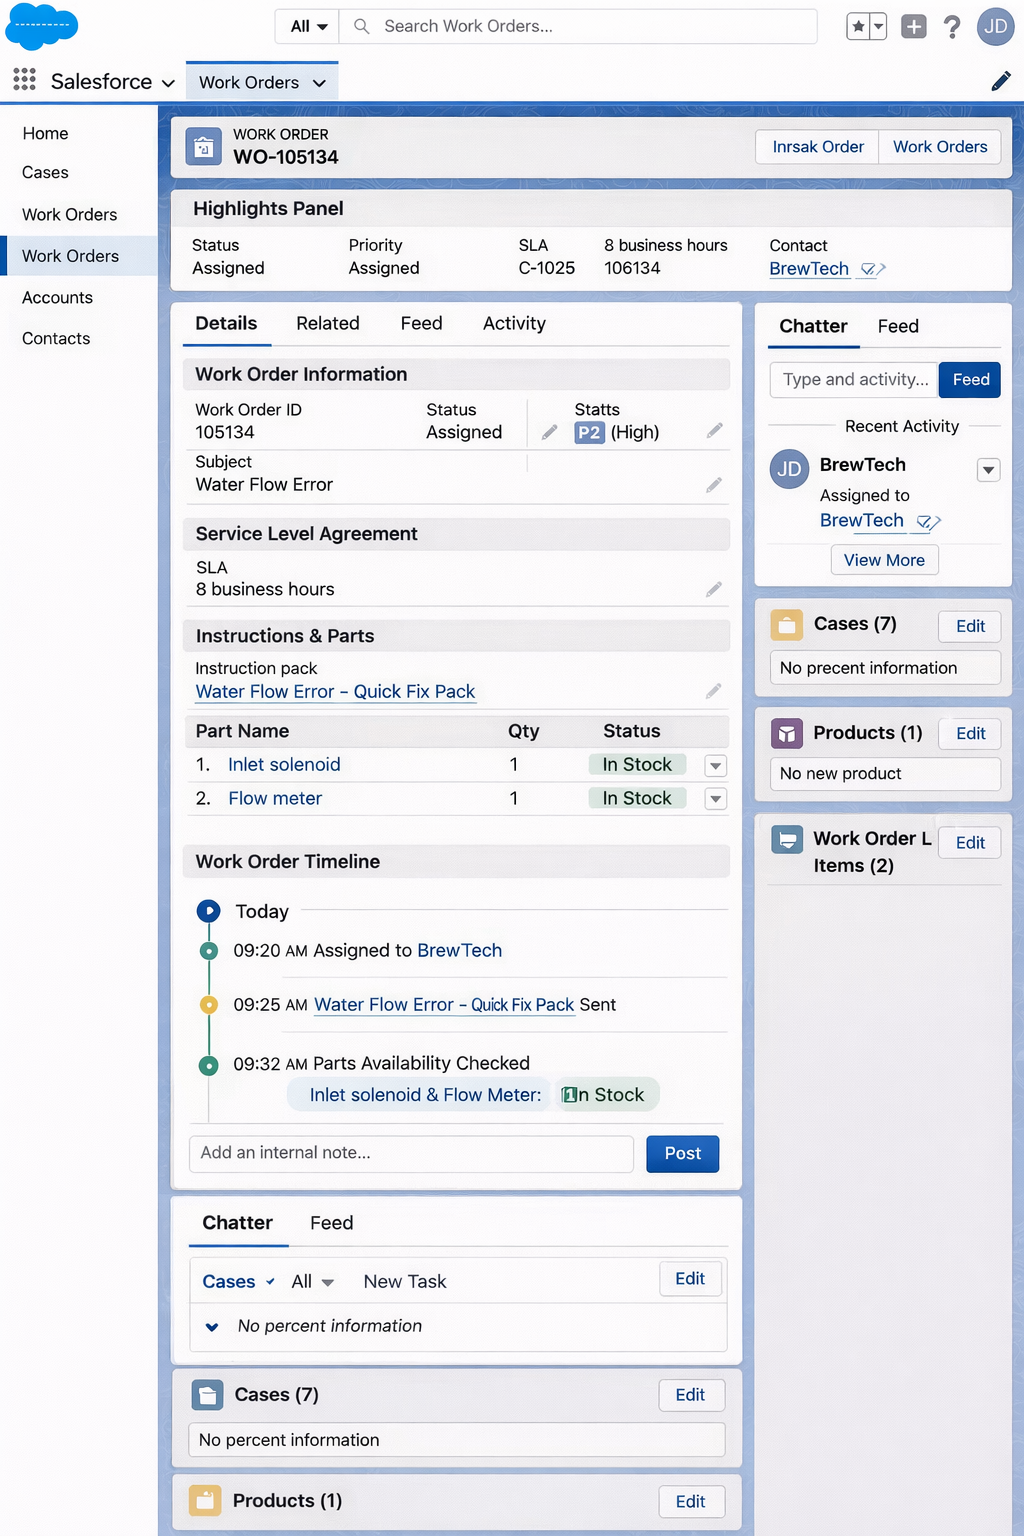
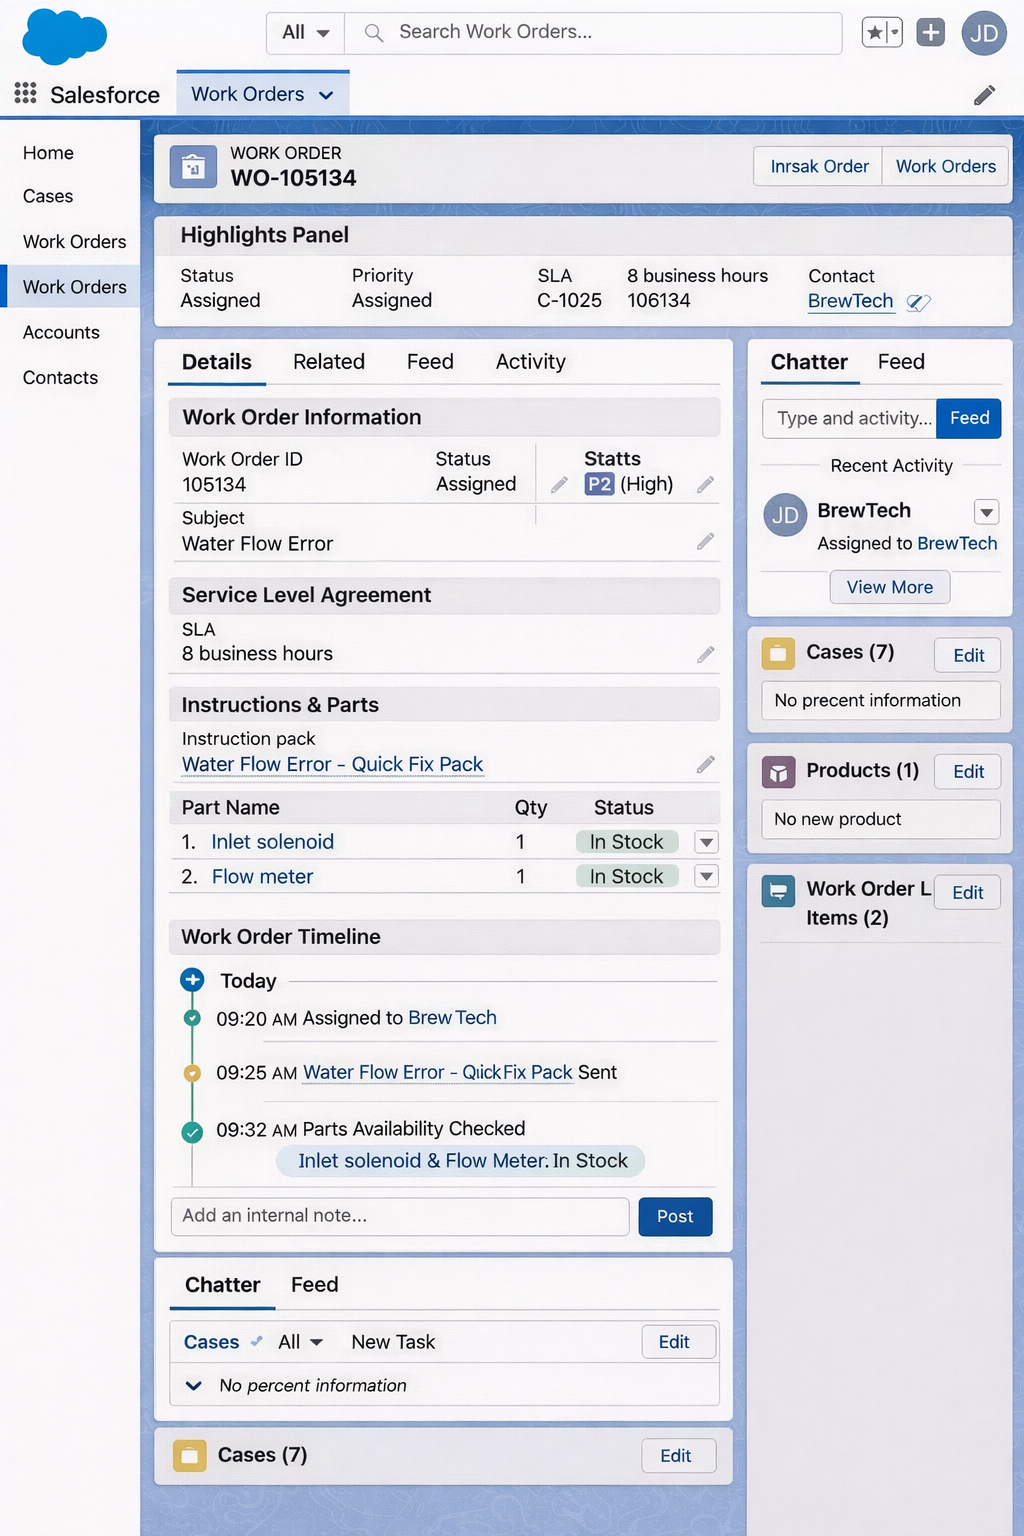
Side menu

Changed region(s): [[0.0, 0.0, 1.0, 1.0], [0.5625, 0.25, 0.6562, 0.3438], [0.5, 0.4688, 0.5312, 0.5625]]

diff --git a/app.py b/app.py
@@ -1,34 +1,38 @@
 import streamlit as st
 from PIL import Image
 
-# Set page configuration with a Page Icon
-# You can use an emoji like "☁" or a path to a local file like "favicon.ico"
+# 1. Set page config with your cloud icon and title
 st.set_page_config(
     layout="wide", 
     page_title="Salesforce",
     page_icon="salesforce-icon.png" 
 )
 
-# Custom CSS for the full-width, scrollable experience
+# 2. Inject CSS to hide all Streamlit UI elements (Header, Footer, Menu)
 st.markdown(
     """
     <style>
-    /* Remove padding to make it look like a real browser window */
-    .block-container {
-        padding: 0rem;
-    }
+    /* Hide the top header bar and the "Made with Streamlit" footer */
+    header {visibility: hidden;}
+    footer {visibility: hidden;}
+    #MainMenu {visibility: hidden;}
     
-    /* Ensure the image stretches horizontally and scrolls vertically */
+    /* Remove default padding so image fills the screen */
+    .block-container {
+        padding: 0rem !important;
+    }
+
+    /* Force the image to stretch horizontally and allow vertical scroll */
     .stImage > img {
         width: 100% !important;
         height: auto !important;
         display: block;
     }
 
-    /* Hide the Streamlit header/footer for a cleaner 'full page' look */
-    #MainMenu {visibility: hidden;}
-    footer {visibility: hidden;}
-    header {visibility: hidden;}
+    /* Target the specific container to remove top white space */
+    .stAppViewMain {
+        margin-top: -50px;
+    }
     </style>
     """,
     unsafe_allow_html=True,
@@ -38,14 +42,12 @@ def main():
     image_path = "Salesforce.png"
     
     try:
-        # Open the work order image
         img = Image.open(image_path)
-        
-        # Display using the 2026 'stretch' parameter
+        # Using the 2026 syntax you confirmed earlier
         st.image(img, width="stretch")
         
     except FileNotFoundError:
-        st.error(f"Error: {image_path} not found. Ensure the image is in the same folder.")
+        st.error(f"Error: {image_path} not found.")
 
 if __name__ == "__main__":
     main()
